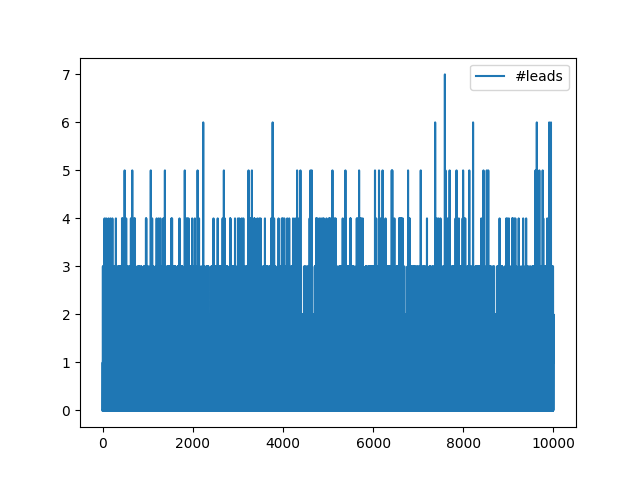
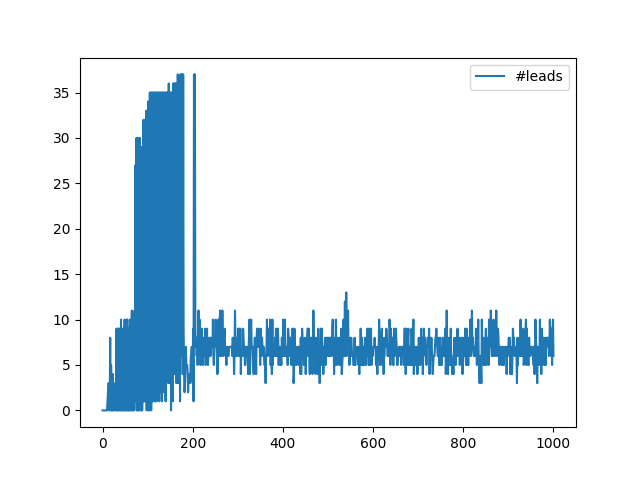
[research/lotterysim] plot from ./log initial stake, apr for each node in plot_darkies.py

diff --git a/script/research/lotterysim/core/strategy.py b/script/research/lotterysim/core/strategy.py
@@ -2,8 +2,15 @@ import math
 from core.utils import *
 
 class Strategy(object):
-    def __init__(self, epoch_len=0):
+    '''
+    @type epoch_len: int
+    @epoch_len: epoch length
+    @type airdrop_period: int
+    @param airdrop_period: strategy grace period, during which strategy is HODL only
+    '''
+    def __init__(self, epoch_len=0, airdrop_period=HEADSTART_AIRDROP):
         self.epoch_len = epoch_len
+        self.airdrop_period=HEADSTART_AIRDROP
         self.staked_tokens_ratio = [1]
         self.target_apy = TARGET_APR
         self.annual_return = [0]
@@ -32,6 +39,10 @@ class LinearStrategy(Strategy):
 
     def set_ratio(self, slot, apr):
         if slot%self.epoch_len==0:
+            if slot < self.airdrop_period:
+                self.staked_tokens_ratio += [1]
+                self.annual_return +=[apr]
+                return
             sr = Num(apr)/Num(self.target_apy)
             if sr>1:
                 sr = 1
@@ -48,6 +59,10 @@ class LogarithmicStrategy(Strategy):
 
     def set_ratio(self, slot, apr):
         if slot%self.epoch_len==0:
+            if slot < self.airdrop_period:
+                self.staked_tokens_ratio += [1]
+                self.annual_return +=[apr]
+                return
             apr_ratio = math.fabs(apr/self.target_apy)
             fn = lambda x: (math.log(x, 10)+1)/2 * 0.95 + 0.05
             sr = Num(fn(apr_ratio) if apr_ratio != 0 else 0)
@@ -65,6 +80,10 @@ class SigmoidStrategy(Strategy):
 
     def set_ratio(self, slot, apr):
         if slot%self.epoch_len==0:
+            if slot < self.airdrop_period:
+                self.staked_tokens_ratio += [1]
+                self.annual_return +=[apr]
+                return
             apr_ratio = apr/self.target_apy
             sr = Num(2/(1+math.pow(math.e, -4*apr_ratio))-1)
             if sr>1:

diff --git a/script/research/lotterysim/plot_darkies.py b/script/research/lotterysim/plot_darkies.py
@@ -1,0 +1,27 @@
+import matplotlib.pyplot as plt
+import numpy as np
+import os
+import glob
+
+darkies = []
+idx = 0
+for darkie in glob.glob('log/darkie[0-9]*.log'):
+    with open(darkie) as f:
+        buf = f.read()
+        lines = buf.split('\n')
+        apr = float(lines[2].split(':')[1].strip())
+        initial_stake = [float(item) for item in lines[0].split(':')[1].split(',')]
+        idx +=1
+        if sum(initial_stake)!=0 :
+            darkies += [(initial_stake, apr, idx)]
+
+for darkie in darkies:
+    plt.plot(darkie[0])
+
+legends = []
+for darkie in darkies:
+    legend = ["darkie{}, apr: {}".format(darkie[2], format(darkie[1]))]
+    legends +=[legend]
+plt.legend(legends)
+plt.show()
+plt.savefig("log/plot_darkies.png")

diff --git a/script/research/lotterysim/core/darkie.py b/script/research/lotterysim/core/darkie.py
@@ -74,6 +74,8 @@ class Darkie():
             self.strategy.set_ratio(self.slot, apr)
             # epoch stake is added
             self.initial_stake +=[self.stake]
+        #if self.slot == HEADSTART_AIRDROP:
+        #    self.initial_stake += [self.stake]
         T = target(self.f, self.strategy.staked_value(self.stake))
         won = lottery(T, hp)
         self.won_hist += [won]

diff --git a/script/research/lotterysim/discrete_instance_pi_headstart.py b/script/research/lotterysim/discrete_instance_pi_headstart.py
@@ -10,7 +10,7 @@ from draw import draw
 os.system("rm log/*_feedback.hist; rm log/*_output.hist")
 
 RUNNING_TIME = int(input("running time:"))
-NODES=1000
+NODES=100
 
 if __name__ == "__main__":
     darkies = [Darkie(0, strategy=LinearStrategy(EPOCH_LENGTH)) for _ in range(NODES)]

diff --git a/script/research/lotterysim/core/constants.py b/script/research/lotterysim/core/constants.py
@@ -38,3 +38,6 @@ ACC_WINDOW = 100
 
 BASE_L = 0.001*L
 BASE_L_HP = Num(BASE_L)
+
+# HEADSTART AIRDROP period ~ 1 month
+HEADSTART_AIRDROP=28800
